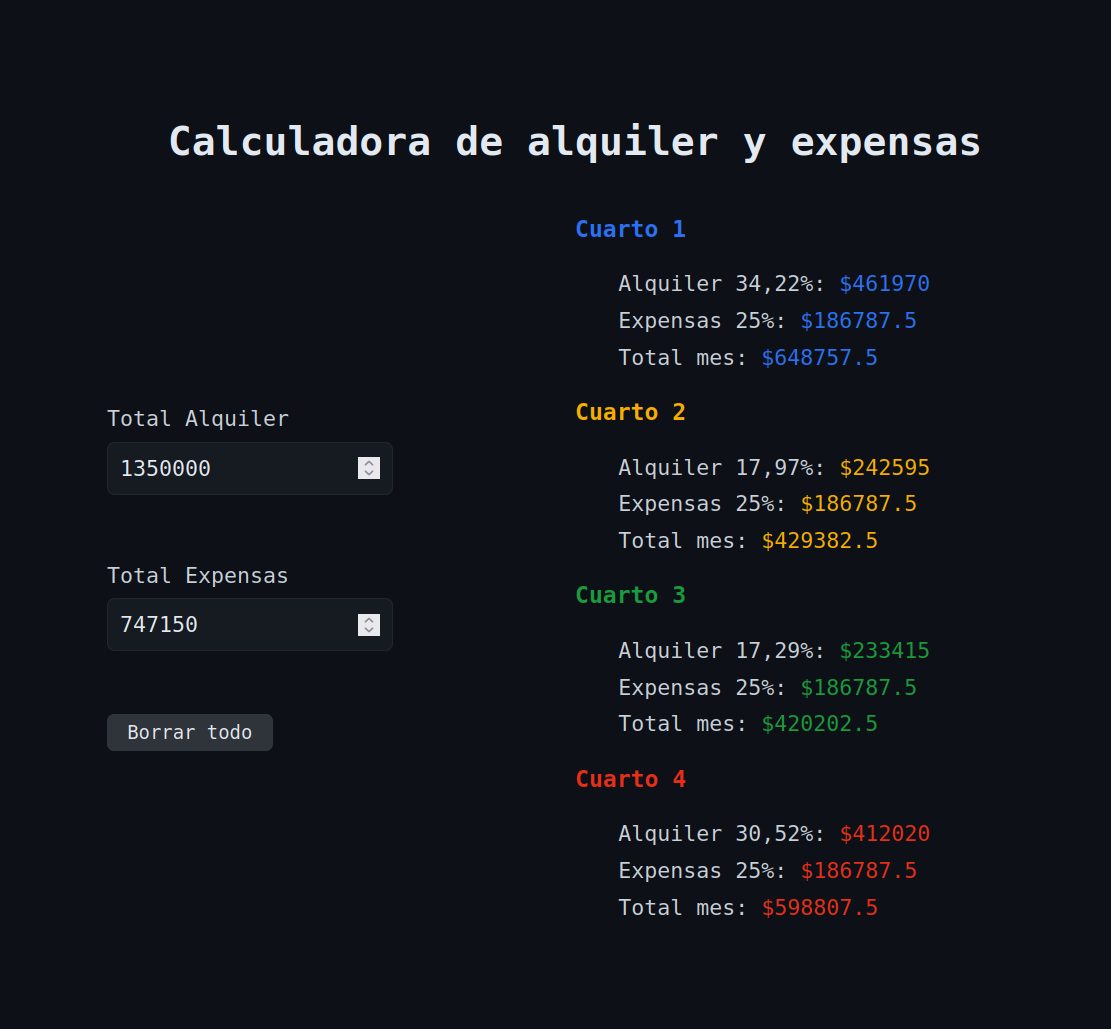
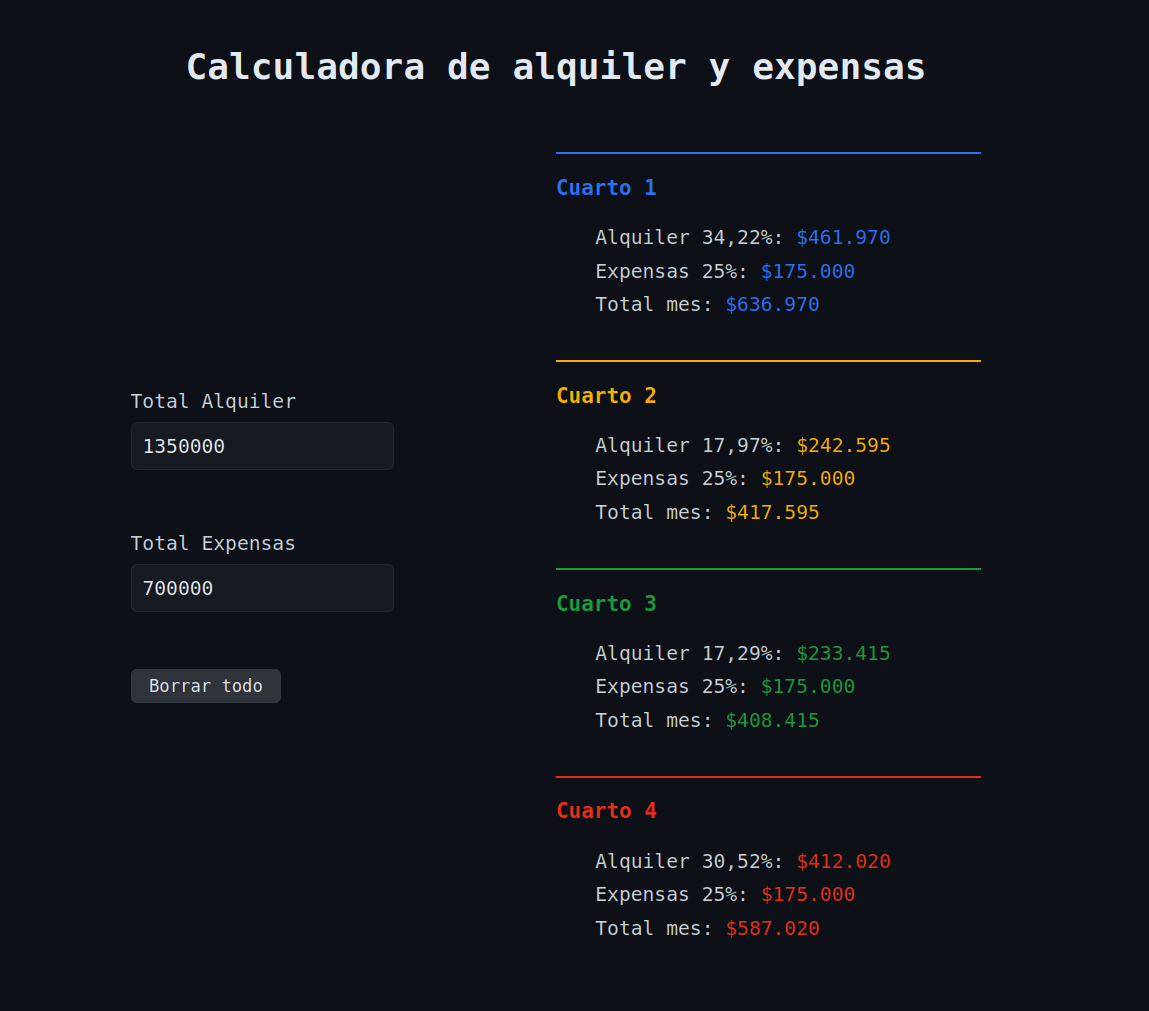
Agregadas media queries, formato local AR e pequenas melloras

diff --git a/css/styles.css b/css/styles.css
@@ -1,24 +1,26 @@
 :root {
+    --bg-negro: #0d1117;
     --color-azul: #2c70f5;
     --color-amarillo: #f8ae00;
     --color-verde: #1a9b3c;
     --color-rojo: #e92e18;
 }
 
-.cuarto1 {
-    color: var(--color-azul);
-}
+.cuarto1 { color: var(--color-azul); }
+.cuarto1-hr { border-color: var(--color-azul); }
 
-.cuarto2 {
-    color: var(--color-amarillo);
-}
+.cuarto2 { color: var(--color-amarillo); }
+.cuarto2-hr { border-color: var(--color-amarillo); }
 
-.cuarto3 {
-    color: var(--color-verde);
-}
+.cuarto3 { color: var(--color-verde); }
+.cuarto3-hr { border-color: var(--color-verde); }
 
-.cuarto4 {
-    color: var(--color-rojo);
+.cuarto4 { color: var(--color-rojo); }
+.cuarto4-hr { border-color: var(--color-rojo); }
+
+
+hr {
+    border-width: 2px;
 }
 
 body {
@@ -32,10 +34,6 @@ ul {
 
 .cuarto-div h5{
     margin: 0;
-}
-
-.cuarto-div {
-    
 }
 
 .cuartosContainer {
@@ -61,4 +59,79 @@ ul {
     display: flex;
     justify-content: space-between;
     align-items: center;
+}
+
+
+
+/* =================================
+    Ocultar flechas input number 
+===================================*/
+
+/* Chrome, Safari, Edge, Opera */
+input::-webkit-outer-spin-button,
+input::-webkit-inner-spin-button {
+  -webkit-appearance: none;
+  margin: 0;
+}
+
+/* Firefox */
+input[type=number] {
+  -moz-appearance: textfield !important;
+}
+
+
+
+/* ====================
+    Media queries
+==================== */
+@media (max-width: 720px) {
+
+    #formGastos {
+        flex-direction: column;
+    }
+
+    .totalContainer {
+        margin-top: 5%;
+        margin-bottom: 10%;
+        height: 270px;
+    }
+
+    .titulo {
+        font-size: 26px;
+    }
+
+    .cuartosContainer {
+        width: 60%;
+    }
+
+    .cuartosContainer li {
+        font-size: 16px;
+    }
+}
+
+
+@media (max-width: 560px) {
+    .titulo {
+        font-size: 22px;
+    }
+
+    body {
+        font-size: 16px;
+    }
+
+    .cuartosContainer li {
+        font-size: 14px;
+    }
+
+    .totalContainer {
+        height: 230px;
+    }
+}
+
+
+@media (max-width: 390px) {
+    .cuartosContainer ul {
+        padding-left: 0;
+        margin-bottom: 15%;
+    }
 }

diff --git a/js/index.js b/js/index.js
@@ -1,3 +1,6 @@
+/*========================
+    Selector elementos
+========================*/
 const formGastos = document.getElementById("formGastos");
 const totalAlquiler = document.getElementById("totalAlquiler");
 const totalExpensas = document.getElementById("totalExpensas");
@@ -18,15 +21,19 @@ const total3 = document.getElementById("total3");
 const total4 = document.getElementById("total4");
 
 
+
+// Evento tecla levantada
 formGastos.addEventListener("keyup", event => {
     
     let valorAlquiler = totalAlquiler.valueAsNumber;
     let valorExpensas = totalExpensas.valueAsNumber;
 
+    // Si es un numero y no es null, pasa a la funcion repartir gastos
     if(!isNaN(valorAlquiler) && valorAlquiler !== null && !isNaN(valorExpensas) && valorExpensas !== null) {
         repartirGastos(valorAlquiler, valorExpensas);
     }
 });
+
 
 function repartirGastos(alquiler, expensas) {
     let sumaExpensas = expensas * 25 / 100;
@@ -35,21 +42,22 @@ function repartirGastos(alquiler, expensas) {
     let sumaAlquiler2 = alquiler * 17.97 / 100;
     let sumaAlquiler3 = alquiler * 17.29 / 100;
     let sumaAlquiler4 = alquiler * 30.52 / 100;
-    
-    alquiler1.innerHTML = `$${sumaAlquiler1}`;
-    expensas1.innerHTML = `$${sumaExpensas}`;
-    total1.innerHTML = `$${sumaAlquiler1 + sumaExpensas}`;
 
-    alquiler2.innerHTML = `$${sumaAlquiler2}`;
-    expensas2.innerHTML = `$${sumaExpensas}`;
-    total2.innerHTML = `$${sumaAlquiler2 + sumaExpensas}`;
+    // toLocaleString agrega . como separador de miles (en formato local argentino)
+    alquiler1.innerHTML = `$${sumaAlquiler1.toLocaleString("es-AR")}`;
+    expensas1.innerHTML = `$${sumaExpensas.toLocaleString("es-AR")}`;
+    total1.innerHTML = `$${(sumaAlquiler1 + sumaExpensas).toLocaleString("es-AR")}`;
+
+    alquiler2.innerHTML = `$${sumaAlquiler2.toLocaleString("es-AR")}`;
+    expensas2.innerHTML = `$${sumaExpensas.toLocaleString("es-AR")}`;
+    total2.innerHTML = `$${(sumaAlquiler2 + sumaExpensas).toLocaleString("es-AR")}`;
     
 
-    alquiler3.innerHTML = `$${sumaAlquiler3}`;
-    expensas3.innerHTML = `$${sumaExpensas}`;
-    total3.innerHTML = `$${sumaAlquiler3 + sumaExpensas}`;
+    alquiler3.innerHTML = `$${sumaAlquiler3.toLocaleString("es-AR")}`;
+    expensas3.innerHTML = `$${sumaExpensas.toLocaleString("es-AR")}`;
+    total3.innerHTML = `$${(sumaAlquiler3 + sumaExpensas).toLocaleString("es-AR")}`;
     
-    alquiler4.innerHTML = `$${sumaAlquiler4}`;
-    expensas4.innerHTML = `$${sumaExpensas}`;
-    total4.innerHTML = `$${sumaAlquiler4 + sumaExpensas}`;
+    alquiler4.innerHTML = `$${sumaAlquiler4.toLocaleString("es-AR")}`;
+    expensas4.innerHTML = `$${sumaExpensas.toLocaleString("es-AR")}`;
+    total4.innerHTML = `$${(sumaAlquiler4 + sumaExpensas).toLocaleString("es-AR")}`;
 }

diff --git a/index.html b/index.html
@@ -40,6 +40,7 @@
             <!-- Contenedor cuartos -->
             <div class="cuartosContainer">
                 <!-- Cuarto 1 -->
+                <hr class="cuarto1-hr">
                 <div class="cuarto-div">
                     <h5 class="cuarto1">Cuarto 1</h5>
                     <ul>
@@ -48,8 +49,9 @@
                         <li>Total mes: <span class="cuarto1" id="total1">0</span></li>
                     </ul>
                 </div>
-
+                
                 <!-- Cuarto 2 -->
+                <hr class="cuarto2-hr">
                 <div class="cuarto-div">
                     <h5 class="cuarto2">Cuarto 2</h5>
                     <ul>
@@ -60,6 +62,7 @@
                 </div>
 
                 <!-- Cuarto 3 -->
+                <hr class="cuarto3-hr">
                 <div class="cuarto-div">
                     <h5 class="cuarto3">Cuarto 3</h5>
                     <ul>
@@ -70,6 +73,7 @@
                 </div>
 
                 <!-- Cuarto 4 -->
+                <hr class="cuarto4-hr">
                 <div class="cuarto-div">
                     <h5 class="cuarto4">Cuarto 4</h5>
                     <ul>